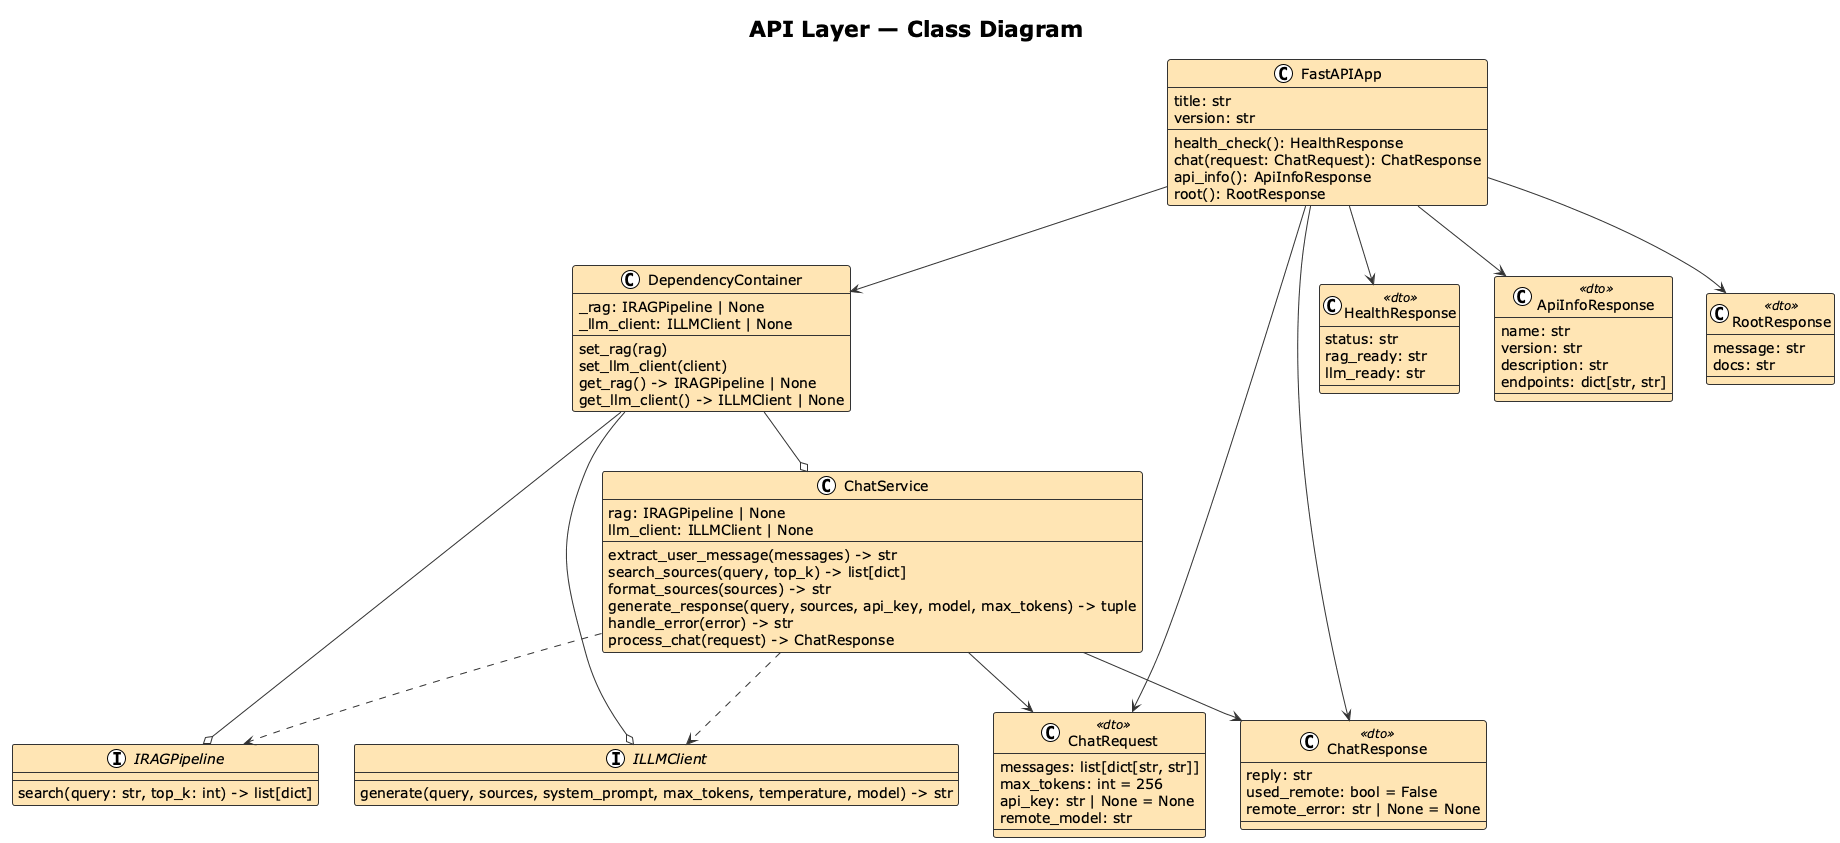
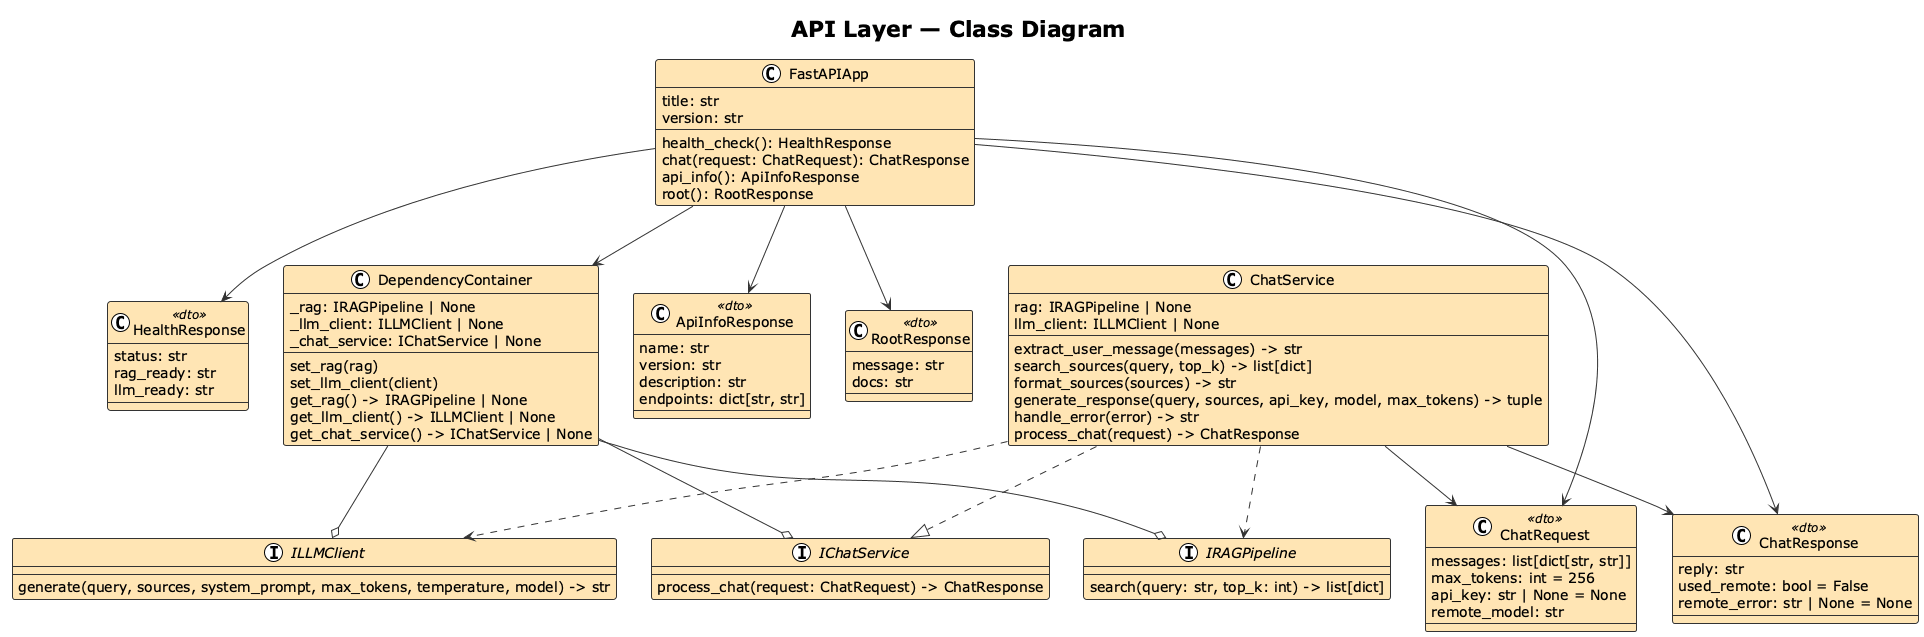
добавил IChatService

diff --git a/HalalAI-backend/LLM-service/src/halal_rag/api/interfaces.py b/HalalAI-backend/LLM-service/src/halal_rag/api/interfaces.py
@@ -1,0 +1,13 @@
+"""Service interfaces for API layer"""
+
+from abc import ABC, abstractmethod
+from .models import ChatRequest, ChatResponse
+
+
+class IChatService(ABC):
+    """Interface for chat service"""
+
+    @abstractmethod
+    async def process_chat(self, request: ChatRequest) -> ChatResponse:
+        """Process chat request end-to-end"""
+        pass

diff --git a/HalalAI-backend/LLM-service/src/halal_rag/api/dependencies.py b/HalalAI-backend/LLM-service/src/halal_rag/api/dependencies.py
@@ -7,6 +7,7 @@ from halal_rag.llm.interfaces import ILLMClient
 from halal_rag.llm.open_router import OpenRouterClient
 from halal_rag.rag.interfaces import IRAGPipeline
 from halal_rag.rag.retriever import SimpleRAG
+from .interfaces import IChatService
 
 logger = logging.getLogger(__name__)
 
@@ -16,7 +17,7 @@ class DependencyContainer:
 
     _rag: Optional[IRAGPipeline] = None
     _llm_client: Optional[ILLMClient] = None
-    _chat_service: Optional["ChatService"] = None
+    _chat_service: Optional[IChatService] = None
 
     @classmethod
     def set_rag(cls, rag: IRAGPipeline) -> None:
@@ -46,7 +47,7 @@ class DependencyContainer:
         return cls._llm_client
 
     @classmethod
-    def get_chat_service(cls) -> Optional["ChatService"]:
+    def get_chat_service(cls) -> Optional[IChatService]:
         """Get or create ChatService singleton"""
         if cls._chat_service is None:
             rag = cls.get_rag()
@@ -83,6 +84,6 @@ def get_llm_client() -> Optional[ILLMClient]:
     return DependencyContainer.get_llm_client()
 
 
-def get_chat_service() -> Optional["ChatService"]:
+def get_chat_service() -> Optional[IChatService]:
     """Get ChatService singleton"""
     return DependencyContainer.get_chat_service()

diff --git a/HalalAI-backend/LLM-service/src/halal_rag/api/services.py b/HalalAI-backend/LLM-service/src/halal_rag/api/services.py
@@ -5,12 +5,13 @@ from typing import Optional
 
 from halal_rag.llm.interfaces import ILLMClient
 from halal_rag.rag.interfaces import IRAGPipeline
+from .interfaces import IChatService
 from .models import ChatRequest, ChatResponse
 
 logger = logging.getLogger(__name__)
 
 
-class ChatService:
+class ChatService(IChatService):
     """Service for handling chat requests"""
 
     def __init__(self, rag: Optional[IRAGPipeline], llm_client: Optional[ILLMClient]):